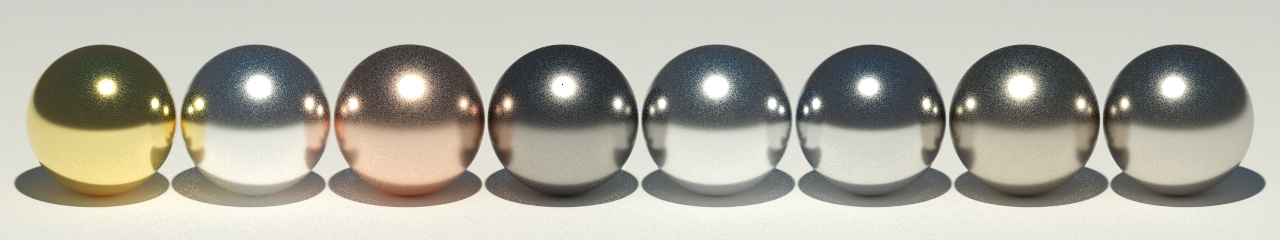
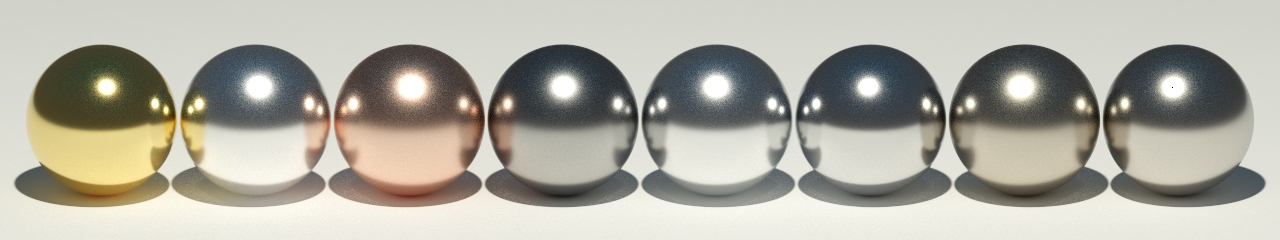
Add fixes
* Add back pi factor for direct photons
* Assume diffuse reflection if ior is negative
* Clean up code
* Add updated caustic and metals images

diff --git a/source/color/spectral.hpp b/source/color/spectral.hpp
@@ -13,82 +13,81 @@ namespace Spectral
     template<class T>
     struct Value
     {
-        double wavelength;
+        double w; // wavelength
         T value;
-        bool operator< (const Value& rhs) const { return wavelength < rhs.wavelength; };
+        bool operator< (const Value& rhs) const { return w < rhs.w; };
     };
 
     template<class T>
     using Distribution = std::set<Value<T>>;
 
-    // Advances iterator it such that it->wavelength <= w < next(it)->wavelength.
+    // Advances iterator it such that it->w <= w < next(it)->w.
     template<class T>
     bool advance(typename Distribution<T>::iterator &it,
                  typename Distribution<T>::iterator end, double w)
     {
-        if (it->wavelength >= w && std::next(it) != end)
+        if (it->w >= w && std::next(it) != end)
         {
             return true;
         }
         for ( ; std::next(it) != end; it++)
         {
-            if (it->wavelength <= w && std::next(it)->wavelength > w) return true;
+            if (it->w <= w && std::next(it)->w > w) return true;
         }
         return false;
     };
 
     template<class T>
-    constexpr T interpolate(const Value<T> &s0, const Value<T> &s1, double wavelength)
+    constexpr T interpolate(const Value<T> &s0, const Value<T> &s1, double w)
     {
-        double lerp = (wavelength - s0.wavelength) / (s1.wavelength - s0.wavelength);
+        double lerp = (w - s0.w) / (s1.w - s0.w);
+        if (lerp < 0.0 || lerp > 1.0) return T(0);
         return s0.value + lerp * (s1.value - s0.value);
     }
 
-    template<class T, unsigned SIZE>
+    template<class T, size_t SIZE>
     struct EvenDistribution
     {
         static_assert(SIZE >= 2, "Even spectral distribution must have at least 2 elements.");
 
         constexpr EvenDistribution(const std::array<Value<T>, SIZE> &S)
-            : S(S), STEP(S[1].wavelength - S[0].wavelength)
+            : S(S), dw(S[1].w - S[0].w), a(S[0].w), b(S[SIZE - 1].w)
         {
-            if (STEP <= 0.0) throw std::invalid_argument("");
+            if (dw <= 0.0) throw std::invalid_argument("");
 
             for (int i = 0; i < SIZE - 1; i++)
             {
-                double dw = S[i + 1].wavelength - S[i].wavelength;
-                double delta = dw < STEP ? STEP - dw : dw - STEP;
-                if (dw <= 0.0 || delta > C::EPSILON)
+                double step = S[i + 1].w - S[i].w;
+                double delta = step < dw ? dw - step : step - dw;
+                if (step <= 0.0 || delta > C::EPSILON)
                 {
                     throw std::invalid_argument("");
                 }
             }
         }
 
-        constexpr T operator()(double wavelength) const
+        constexpr T operator()(double w) const
         {
-            if (wavelength < S[0].wavelength || wavelength > S[SIZE - 1].wavelength)
-            {
-                return T(0);
-            }
+            if (w < a || w > b) return T(0);
 
-            unsigned idx = static_cast<unsigned>((wavelength - S[0].wavelength) / STEP);
+            size_t i = static_cast<size_t>((w - a) / dw);
 
-            if (idx < SIZE - 1)
-            {
-                return interpolate(S[idx], S[idx + 1], wavelength);
-            }
-
-            return S[idx].value;
+            return i < SIZE - 1 ? interpolate(S[i], S[i + 1], w) : S[i].value;
         }
 
-        constexpr unsigned size() const { return SIZE; }
-        constexpr double dw() const { return STEP; }
-        constexpr double min_w() const { return S[0].wavelength; }
-        constexpr double max_w() const { return S[SIZE-1].wavelength; }
+        const double a;  // Start wavelength
+        const double b;  // End wavelength
+        const double dw; // Wavelength step size
+
+        const size_t size = SIZE;
+
+        // Common start Riemann sum midpoint wavelength aligned with this distribution
+        constexpr double aMid(double second_a) const
+        {
+            return a + (cfloor((cmax(second_a, a) - a) / dw) + 0.5) * dw;
+        }
 
     private:
         const std::array<Value<T>, SIZE> S;
-        const double STEP;
     };
 }

diff --git a/source/integrator/photon-mapper/photon-mapper.cpp b/source/integrator/photon-mapper/photon-mapper.cpp
@@ -243,23 +243,15 @@ void PhotonMapper::emitPhoton(const Ray& ray, const glm::dvec3& flux, size_t thr
     Ray new_ray = interaction.getNewRay();
     glm::dvec3 BRDF = interaction.BRDF(new_ray.direction);
 
-    if (ray_depth == 0)
-    {
-        if (interaction.type != Interaction::Type::REFRACT && Random::trial(non_caustic_reject))
-        {
-            createShadowPhotons(Ray(interaction.position - interaction.normal * C::EPSILON, interaction.position + ray.direction), thread);
-
-            if (interaction.type == Interaction::Type::DIFFUSE)
-            {
-                direct_vecs[thread].emplace_back(flux / non_caustic_reject, interaction.position, ray.direction);
-            }
-        }
-    }
-    else if (interaction.type == Interaction::Type::DIFFUSE)
+    if (interaction.type == Interaction::Type::DIFFUSE)
     {
         BRDF *= C::PI;
-
-        if (ray.specular)
+        if (ray_depth == 0 && Random::trial(non_caustic_reject))
+        {
+            direct_vecs[thread].emplace_back(flux / non_caustic_reject, interaction.position, ray.direction);
+            createShadowPhotons(Ray(interaction.position - interaction.normal * C::EPSILON, interaction.position + ray.direction), thread);
+        }
+        else if (ray.specular)
         {
             caustic_vecs[thread].emplace_back(flux, interaction.position, ray.direction);
         }
@@ -267,6 +259,10 @@ void PhotonMapper::emitPhoton(const Ray& ray, const glm::dvec3& flux, size_t thr
         {
             indirect_vecs[thread].emplace_back(flux / non_caustic_reject, interaction.position, ray.direction);
         }
+    }
+    else if (interaction.type == Interaction::Type::REFLECT && ray_depth == 0 && Random::trial(non_caustic_reject))
+    {
+        createShadowPhotons(Ray(interaction.position - interaction.normal * C::EPSILON, interaction.position + ray.direction), thread);
     }
 
     glm::dvec3 new_flux = flux * BRDF;
@@ -284,12 +280,7 @@ void PhotonMapper::emitPhoton(const Ray& ray, const glm::dvec3& flux, size_t thr
 
 void PhotonMapper::createShadowPhotons(const Ray& ray, size_t thread, size_t depth)
 {
-    if (!use_shadow_photons)
-    {
-        return;
-    }
-
-    if (depth > max_ray_depth)
+    if (!use_shadow_photons || depth > max_ray_depth)
     {
         return;
     }

diff --git a/source/color/cie.hpp b/source/color/cie.hpp
@@ -26,35 +26,31 @@ namespace CIE
     constexpr glm::dvec3 XYZ(const Spectral::EvenDistribution<double, SIZE> &L)
     {
         glm::dvec3 result(0.0);
-        for (double w = CMF.min_w() + CMF.dw() / 2.0; w < CMF.max_w(); w += CMF.dw())
+        for (double w = CMF.aMid(L.a); w < CMF.b; w += CMF.dw)
         {
             result += L(w) * CMF(w);
         }
-        return CMF.dw() * result;
+        return CMF.dw * result;
     }
 
     // Equal energy illuminant
-    inline constexpr Spectral::EvenDistribution<double, 2> E({{{ CMF.min_w(), 1.0 },
-                                                               { CMF.max_w(), 1.0 }}});
+    inline constexpr Spectral::EvenDistribution<double, 2> E({{{ CMF.a, 1.0 },
+                                                               { CMF.b, 1.0 }}});
 
     // Compile-time integrated tristimulus of spectral radiance from illuminants
-    inline constexpr glm::dvec3 D65_XYZ = XYZ<D65.size()>(D65);
-    inline constexpr glm::dvec3 E_XYZ = XYZ<E.size()>(E);
+    inline constexpr glm::dvec3 D65_XYZ = XYZ<D65.size>(D65);
+    inline constexpr glm::dvec3 E_XYZ = XYZ<E.size>(E);
 
     // Spectral reflectance or radiance distribution to XYZ using midpoint Riemann sum
     inline glm::dvec3 XYZ(const Spectral::Distribution<double> &distribution, Spectral::Type type)
     {
-        bool is_reflectance = type == Spectral::REFLECTANCE;
-        auto it = distribution.begin(), end = distribution.end();
-
         glm::dvec3 result(0.0);
-        for (double w = CMF.min_w() + CMF.dw() / 2.0; w < CMF.max_w(); w += CMF.dw())
+        auto i = distribution.begin(), end = distribution.end();
+        for (double w = CMF.aMid(i->w); w < CMF.b && Spectral::advance<double>(i, end, w); w += CMF.dw)
         {
-            if (!Spectral::advance<double>(it, end, w)) break;
-            auto v = interpolate(*it, *std::next(it), w) * CMF(w);
-            result += is_reflectance ? v * D65(w) : v;
+            auto v = interpolate(*i, *std::next(i), w) * CMF(w);
+            result += type == Spectral::RADIANCE ? v : v * D65(w);
         }
-
-        return (CMF.dw() * result) / (is_reflectance ? D65_XYZ.y : E_XYZ.y);
+        return (CMF.dw * result) / (type == Spectral::RADIANCE ? E_XYZ.y : D65_XYZ.y);
     }
 }

diff --git a/source/material/fresnel.cpp b/source/material/fresnel.cpp
@@ -15,13 +15,13 @@
 // https://seblagarde.wordpress.com/2013/04/29/memo-on-fresnel-equations/
 double Fresnel::dielectric(double n1, double n2, double cos_theta)
 {
-    if (n2 < 1.0 || std::abs(n1 - n2) < C::EPSILON) return 0.0;
+    if (n2 < 1.0) return 0.0;
 
-    double sqr_g = pow2(n2 / n1) + pow2(cos_theta) - 1.0;
+    double g2 = pow2(n2 / n1) + pow2(cos_theta) - 1.0;
 
-    if (sqr_g < 0.0) return 1.0;
+    if (g2 < 0.0) return 1.0;
 
-    double g = std::sqrt(sqr_g);
+    double g = std::sqrt(g2);
     double g_p_c = g + cos_theta;
     double g_m_c = g - cos_theta;
 
@@ -92,7 +92,7 @@ void from_json(const nlohmann::json &j, ComplexIOR &c)
                     }
                 }
             }
-
+            // Integrate spectral distributions to sRGB
             c.real = sRGB::RGB(real, Spectral::REFLECTANCE);
             c.imaginary = sRGB::RGB(imaginary, Spectral::REFLECTANCE);
         }

diff --git a/source/ray/interaction.cpp b/source/ray/interaction.cpp
@@ -11,7 +11,7 @@ Interaction::Interaction(const Intersection &isect, const Ray &ray, double envir
     : t(isect.t), position(ray(t)), normal(isect.surface->normal(position)), 
       material(isect.surface->material), out(-ray.direction), n1(ray.medium_ior)
 {
-    if (std::abs(n1 - environment_ior) < C::EPSILON)
+    if (std::abs(n1 - environment_ior) < C::EPSILON || material->ior < 1.0)
     {
         exit_object = false;
         n2 = material->ior;
@@ -62,7 +62,7 @@ void Interaction::selectType(const glm::dvec3 &specular_normal)
 {
     if (material->perfect_mirror || material->complex_ior)
     {
-        type = REFLECT; 
+        type = REFLECT;
         return;
     }
 

diff --git a/source/ray/ray.cpp b/source/ray/ray.cpp
@@ -5,9 +5,9 @@
 #include "../common/constants.hpp"
 #include "interaction.hpp"
 
-Ray::Ray() : start(), direction(), medium_ior(1) { }
+Ray::Ray() : start(), direction(), medium_ior(1.0) { }
 
-Ray::Ray(const glm::dvec3& start) : start(start), direction(), medium_ior(1) { }
+Ray::Ray(const glm::dvec3& start) : start(start), direction(), medium_ior(1.0) { }
 
 Ray::Ray(const glm::dvec3& start, const glm::dvec3& end, double medium_ior)
     : start(start), direction(glm::normalize(end - start)), medium_ior(medium_ior) { }

diff --git a/source/color/srgb.hpp b/source/color/srgb.hpp
@@ -8,8 +8,6 @@
 
 namespace sRGB
 {
-    // Compile-time generation of sRGB transformation matrix, derived 
-    // from compile-time integrated D65 white point and sRGB primaries.
     constexpr glm::dmat3 generateRGB2XYZ()
     {
         constexpr glm::dmat3 primaries
@@ -31,6 +29,7 @@ namespace sRGB
         };
     }
 
+    // Generated compile-time
     inline constexpr glm::dmat3 RGB2XYZ = generateRGB2XYZ();
     inline constexpr glm::dmat3 XYZ2RGB = inverse(RGB2XYZ);
 

diff --git a/source/scene/scene.cpp b/source/scene/scene.cpp
@@ -197,6 +197,12 @@ void Scene::parseOBJ(const std::filesystem::path &path,
                      std::vector<std::vector<size_t>> &triangles_vt,
                      std::vector<std::vector<size_t>> &triangles_vn) const
 {
+    if (!std::filesystem::exists(path))
+    {
+        std::cout << std::endl << path.string() << " not found.\n";
+        return;
+    }
+
     std::ifstream file(path);
 
     auto isNumber = [](const std::string &s) 

diff --git a/source/common/constexpr-math.hpp b/source/common/constexpr-math.hpp
@@ -56,3 +56,14 @@ constexpr glm::dvec3 mult(const glm::dvec3 &v, double a)
 {
     return { v[0] * a, v[1] * a, v[2] * a };
 }
+
+constexpr double cfloor(double x)
+{
+    return static_cast<double>(static_cast<intmax_t>(x));
+}
+
+template <class T>
+constexpr T cmax(T x, T y)
+{
+    return x > y ? x : y;
+}
